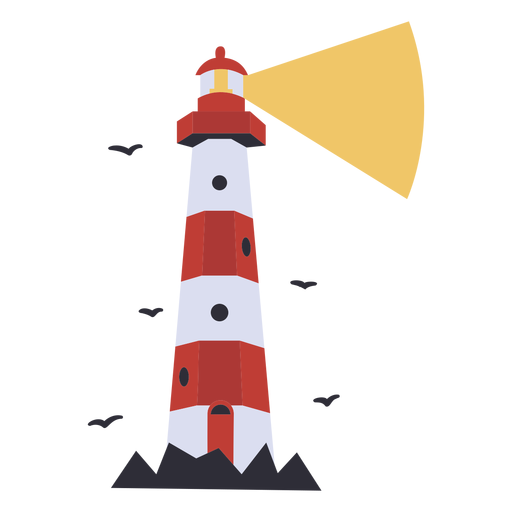
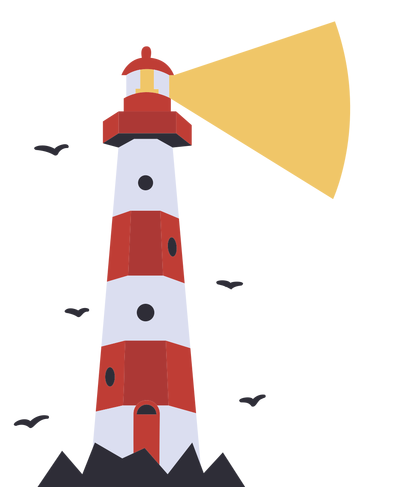
Push pagina estrategias

diff --git a/stylecss/estrategias.css b/stylecss/estrategias.css
@@ -14,8 +14,9 @@ main{
     
 }
 .faro{
-    width: 620px;
-    transform: translateY(80px) translateX(-40px);
+    width: 520px;
+    position: fixed;
+    bottom: 0;
 }
 div{
     z-index: 1;
@@ -24,7 +25,7 @@ h1{
     text-align: center;
     color: white;
     margin-top: 30px;
-    padding: 2rem;
+    padding: 1.2rem;
     background-color: #4C6793;
 }
 ul{
